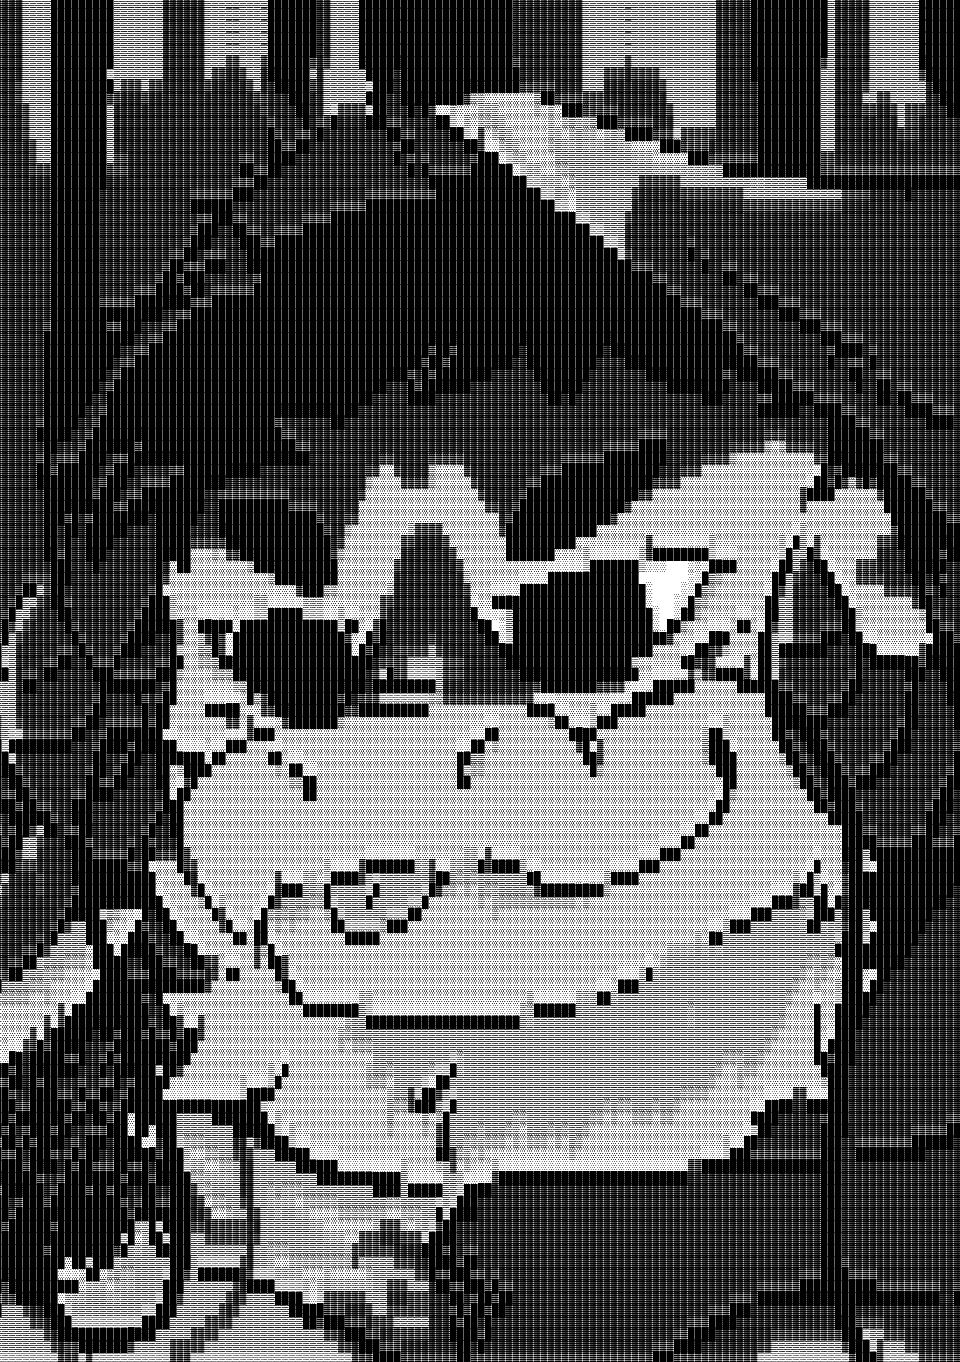
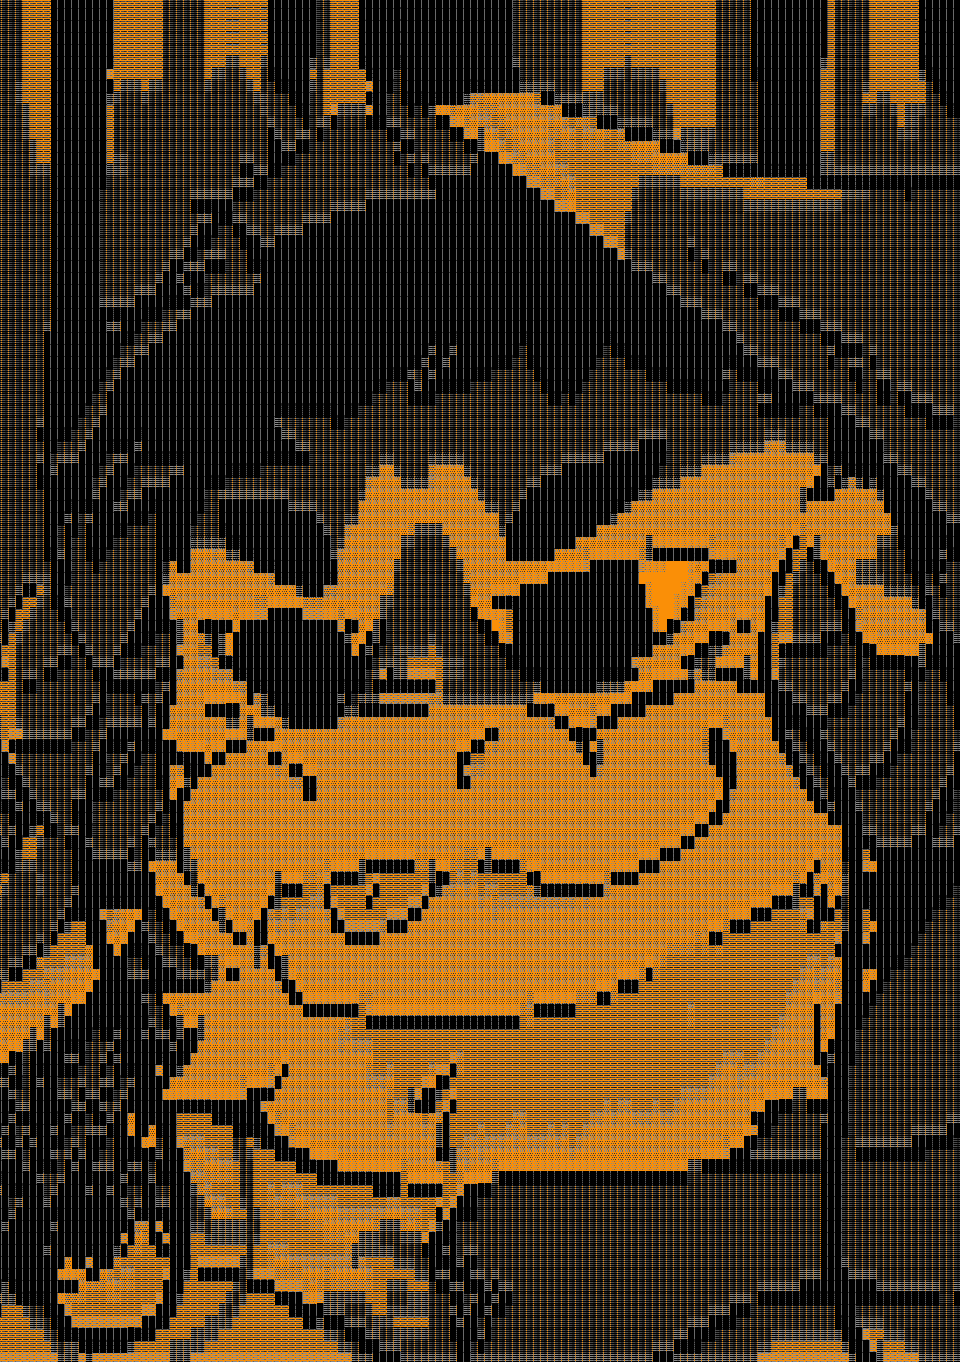
Add files via upload

diff --git a/index.html b/index.html
@@ -154,7 +154,7 @@
 			}
 			
 			a{
-				color: #ffb81d;
+				color: #fac64c;
 				cursor: crosshair;
 				text-decoration:none;
 				border: 1px solid transparent;
@@ -191,7 +191,7 @@
 				font-size: 0.90vw;
 				padding-top: 8px;
 				padding-bottom: 4px;
-				background-color:#fa8f07;
+				background-color: #fa8f07;
 				color: #18140f;
 				overflow: hidden;
 			}
@@ -226,6 +226,11 @@
 				margin:1%;
 				font-size: 0.90vw;
 				color:#ffaf00;
+			}
+			
+			.logsdate{
+				font-size: 0.90vw;
+				margin-left:1%;
 			}
 			
 			pre{
@@ -365,24 +370,58 @@
 			<!-- LOG SECTION -->
 			
 			<div class="logsection">
-
-				<div class="logs">&lt;&lt; Date &nbsp;Here &gt;&gt; <br> █Awaiting a new log_</div>
+			
+				<div class="logsdate" style="color:#E13A5A;"> &lt;&lt; DATE &nbsp;HERE &gt;&gt; </div>
+				<div class="logs">█Awaiting a new entry_</div>
 				
-				<!-- Actual logs go here -->
+			<!-- Actual logs go here -->
+			
+				<div class="logsdate" style="color:#E13A5A;"> &lt;&lt; 10.02.2024 &gt;&gt;</div>
+				<div class="logs"> 
+					Smaller changes to the code, making it more readable, pages for the rest of the section were created and linked, 'Blog' section is complete and it has a first entry, links and 
+					dates/titles got their own special colour, images got a colour too.
+				</div>
 				
-					<div class="logs">&lt;&lt; 10.02.2024 &gt;&gt; <br> Smaller changes to the code, making it more readable, pages for the rest of the section were created and linked, contect wise they are still empty. </div>
-					<div class="logs">&lt;&lt; 09.02.2024 &gt;&gt; <br> 'About' section is almost finished, information about me as the image is there and works without a problem, some mistakes were mixed like spelling and words in the wrong places, images were also replaced with black and white versions temporarily. </div>
-					<div class="logs">&lt;&lt; 08.02.2024 &gt;&gt; <br> Corrected spelling, changed the first sentence of the introduction, footer now won't brake on mobile devices. </div>
-					<div class="logs">&lt;&lt; 07.02.2024 &gt;&gt; <br> Navigation panel Information will now scale in a better way, it was also filled with information about pages, added a link to the 'about' page, the page itself is still empty. </div>
-					<div class="logs">&lt;&lt; 05.02.2024 &gt;&gt; <br> The color of the scroll has been changed, footer now sticks to the bottom of the page, removed minimal width which was 960px, info navigation panel was added with descriptions. </div>
-					<div class="logs">&lt;&lt; 04.02.2024 &gt;&gt; <br> Log section was (by mistake) optimized, the scaling problem was fixed too, the background color was changed to be more orangeish </div>
-					<div class="logs">&lt;&lt; 03.02.2024 &gt;&gt; <br> Small changes to log section, I'm trying to fix problem with scaling. </div>
-					<div class="logs">&lt;&lt; 02.02.2024 &gt;&gt; <br> Added log section, you are currently looking at it, the image now won't resize and break the page. </div>
+				<div class="logsdate" style="color:#E13A5A;"> &lt;&lt; 09.02.2024 &gt;&gt; </div>
+				<div class="logs">
+					'About' section is almost finished, information about me as the image is there and works without a problem, some mistakes were mixed like spelling and words in the wrong places, images 
+					were also replaced with black and white versions temporarily. 
+				</div>
+				
+				<div class="logsdate" style="color:#E13A5A;"> &lt;&lt; 08.02.2024 &gt;&gt; </div>
+				<div class="logs">
+					Corrected spelling, changed the first sentence of the introduction, footer now won't brake on mobile devices. 
+				</div>
+				
+				<div class="logsdate" style="color:#E13A5A;"> &lt;&lt; 07.02.2024 &gt;&gt; </div>
+				<div class="logs">
+					Navigation panel Information will now scale in a better way, it was also filled with information about pages, added a link to the 'about' page, the page itself is still empty. 
+				</div>
+				
+				<div class="logsdate" style="color:#E13A5A;"> &lt;&lt; 05.02.2024 &gt;&gt; </div>
+				<div class="logs">
+					The color of the scroll has been changed, footer now sticks to the bottom of the page, removed minimal width which was 960px, info navigation panel was added with descriptions. 
+				</div>
+				
+				<div class="logsdate" style="color:#E13A5A;"> &lt;&lt; 04.02.2024 &gt;&gt; </div>
+				<div class="logs">
+					Log section was (by mistake) optimized, the scaling problem was fixed too, the background color was changed to be more orangeish 
+				</div>
+				
+				<div class="logsdate" style="color:#E13A5A;"> &lt;&lt; 03.02.2024 &gt;&gt;  </div>
+				<div class="logs">
+					Small changes to log section, I'm trying to fix problem with scaling. 
+				</div>
+				
+				<div class="logsdate" style="color:#E13A5A;"> &lt;&lt; 02.02.2024 &gt;&gt;  </div>
+				<div class="logs">
+					Added log section, you are currently looking at it, the image now won't resize and break the page. 
+				</div>
 
-				<!-- bellow is the cake -->
+			<!-- bellow is the cake -->
 				
 				<div class="logs">
-					<pre>		
+				<pre>		
 					
 	            ,:/+/-
 	            /M/              .,-=;//;-
@@ -406,11 +445,9 @@
 	              ,.:=-. 
 				  
 				</pre>
-			  </div>
+				</div>
 
 			</div>
-			
-			<br>
 	
 		<div class="linebottomLEFT"> &lt;Made for desktop ⌨ viewing &gt; &lt;F12=Tools&gt; &lt;F3=Search&gt; &lt;F5=Reload&gt; &lt;F11=Expand&gt; </div> <div class="linebottomRIGHT"> Last Update : 10/02/2024 </div>
 		

diff --git a/blog.html b/blog.html
@@ -107,6 +107,7 @@
 				float:left;
 				margin-top: 0.5%;
 				margin-left:2%;
+				margin-bottom:1.5%;
 			}
 			
 			.undermenulineRIGHT{
@@ -118,6 +119,7 @@
 				float:right;
 				margin-top: 0.5%;
 				margin-right:2%;
+				margin-bottom:1.5%;
 			}
 			
 			.linebottomLEFT {
@@ -154,7 +156,7 @@
 			}
 			
 			a{
-				color: #ffb81d;
+				color: #fac64c;
 				cursor: crosshair;
 				text-decoration:none;
 				border: 1px solid transparent;
@@ -170,6 +172,33 @@
 			
 			
 			/* blog */
+
+			
+			.blogsection {
+				width:50%;
+				height:80%;
+				margin: 0 auto;
+				overflow-y: scroll;
+				scrollbar-color: #ffaf00 #c06b00;
+				border: 2px dotted #fa8f07;
+				padding-left:1.5%;
+				padding-top:0.5%;
+			}
+			
+			.blogs {
+				display:flex;
+				align-items:left;
+				padding-bottom:4%;
+				margin:1%;
+				font-size: 0.90vw;
+				color:#ffaf00;
+				width:95%;
+			}
+			
+			.blogsdate{
+				font-size: 0.90vw;
+				margin-left:1%;
+			}
 			
 		</style>
 		
@@ -203,11 +232,41 @@
 			
 			<div class="undermenulineLEFT"></div> <div class="undermenulineRIGHT"></div>
 			
+			<!-- BLOG SECTION -->
 			
-			<!-- content -->
-			
-			
-			<br>
+				<div class="blogsection">
+				
+					<div class="blogsdate" style="color:#dd2d60; padding-top:4%;">&lt;&lt; DATE &nbsp;HERE &gt;&gt; &nbsp; // &nbsp; TITLE &nbsp; //</div>
+					
+					<div class="blogs" >█Awaiting a new entry_</div>
+					
+				<!-- Actual blogs go here -->
+				
+					<div class="blogsdate" style="color:#dd2d60;">&lt;&lt; 10.02.2024 &gt;&gt; &nbsp; // &nbsp; New look, new style, whole new website! &nbsp; //</div>
+					
+					<div class="blogs"> 
+
+						Its alive! HAHA, cześć, terve, hola, to anyone who reads this, as Im writing this, my website is still under construction, and Im really happy how its turning out. 
+						
+						<br> &nbsp; <br> 
+						
+						There is still tons of things to be done, some stuff required a lot more time than I thought, mostly because css is old and loves to brake most of stuff that was working
+						without any problem, I think I will be done with everything next week, and I will move to drawing again, this website takes most of time, time which will be pretty rare
+						since the winter brake is coming to an end, good that only 3 months of school left, then, mature exam and oh boy, Im done with this part of my life, finally.
+						
+						<br> &nbsp; <br> 
+						
+						About the art, recently I uploaded my artowrks to e621, its a pretty cool place, mostly yiff, but hey cool nonetheless, as I said on a blog on my old website, Im going to upload 
+						one artwork a month, and I think this is a good strategy and also it doesnt makes me stressed, I can relax and draw and also maintain activity on social media without tuning into
+						a gremlin.
+						
+						<br> &nbsp; <br> 
+						
+						I better get back to work, I hate css, see ya mates.
+						
+					</div>
+
+				</div>
 	
 		<div class="linebottomLEFT"> &lt;Made for desktop ⌨ viewing &gt; &lt;F12=Tools&gt; &lt;F3=Search&gt; &lt;F5=Reload&gt; &lt;F11=Expand&gt; </div> <div class="linebottomRIGHT"> Last Update : 10/02/2024 </div>
 		

diff --git a/about.html b/about.html
@@ -154,7 +154,7 @@
 			}
 			
 			a{
-				color: #ffb81d;
+				color: #fac64c;
 				cursor: crosshair;
 				text-decoration:none;
 				border: 1px solid transparent;
@@ -247,7 +247,7 @@
 			
 			
 			<!-- <div class="europe"> <img class="tk" src="img/asciiart3.png" align="right"> </div> -->	
-						
+			
 			<div class="dotted-vertical-line"></div>
 		
 			<!-- ABOUT PAGE -->	
@@ -266,14 +266,14 @@
 						When it comes to art, I have been fully doing it since 2018, time when I discovered bigger part of the internet and furry's (yeah I was a bit late to the party), voxel art was first, I used 
 						MagicaVoxel then, from stylized scenes to realistic landscapes, later in 2022 I've begun to draw.
 						I experimented with few softwares, Photoshop, Sketchbook, at the end of the day, I decided on Krita, it's free, simple, good enough, with the help of many of my friends I managed to acquire basic skills.
-						I'm still learning, and that process will never end, I'm currently trying to master pixel art, later I will proceed to master more stylized art style, leaving at the end sketch and painting.
+						I'm still learning, and that process will never end, I'm currently trying to master pixel art, later I will proceed to master more stylized art style, leaving at the end sketch and painting. <br> <br>
+						
+						So that's me, I think I said everything important, but hey, maybe you still have many questions, in that case you can send me a message, and I'll be glad to add more info to this page for others.
 						
 					</p>
 				<br>
 			</div>
-			
-			<br>
-	
+
 		<div class="linebottomLEFT"> &lt;Made for desktop ⌨ viewing &gt; &lt;F12=Tools&gt; &lt;F3=Search&gt; &lt;F5=Reload&gt; &lt;F11=Expand&gt; </div> <div class="linebottomRIGHT"> Last Update : 10/02/2024 </div>
 		
 	</body>

diff --git a/contact.html b/contact.html
@@ -154,7 +154,7 @@
 			}
 			
 			a{
-				color: #ffb81d;
+				color: #fac64c;
 				cursor: crosshair;
 				text-decoration:none;
 				border: 1px solid transparent;

diff --git a/foxarts.html b/foxarts.html
@@ -154,7 +154,7 @@
 			}
 			
 			a{
-				color: #ffb81d;
+				color: #fac64c;
 				cursor: crosshair;
 				text-decoration:none;
 				border: 1px solid transparent;

diff --git a/tos.html b/tos.html
@@ -154,7 +154,7 @@
 			}
 			
 			a{
-				color: #ffb81d;
+				color: #fac64c;
 				cursor: crosshair;
 				text-decoration:none;
 				border: 1px solid transparent;
